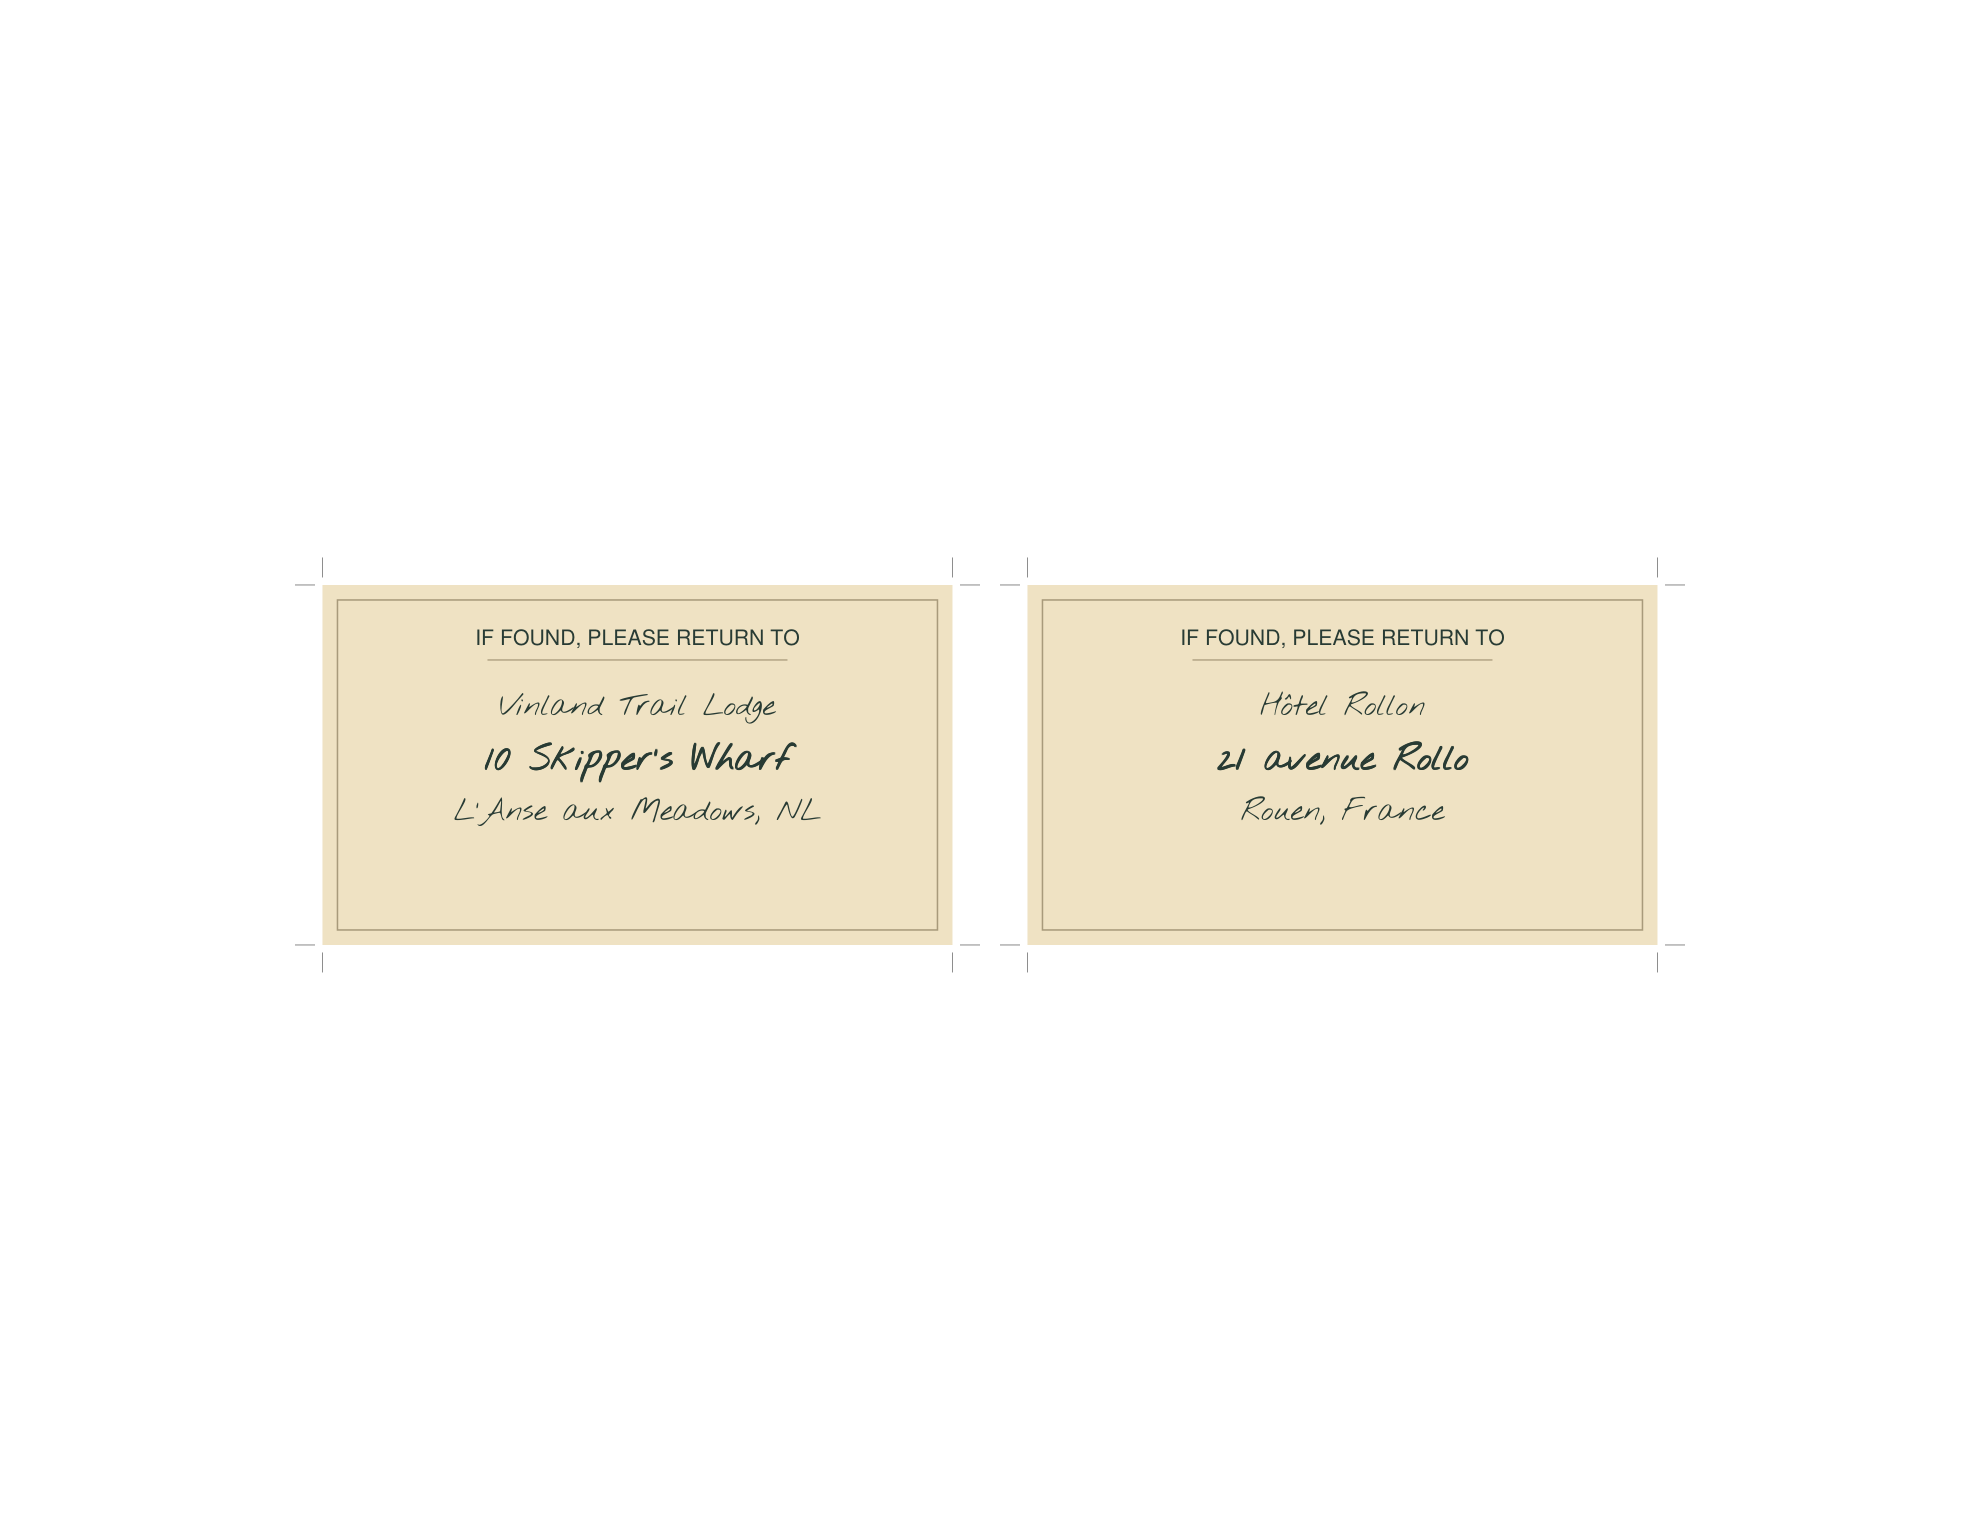
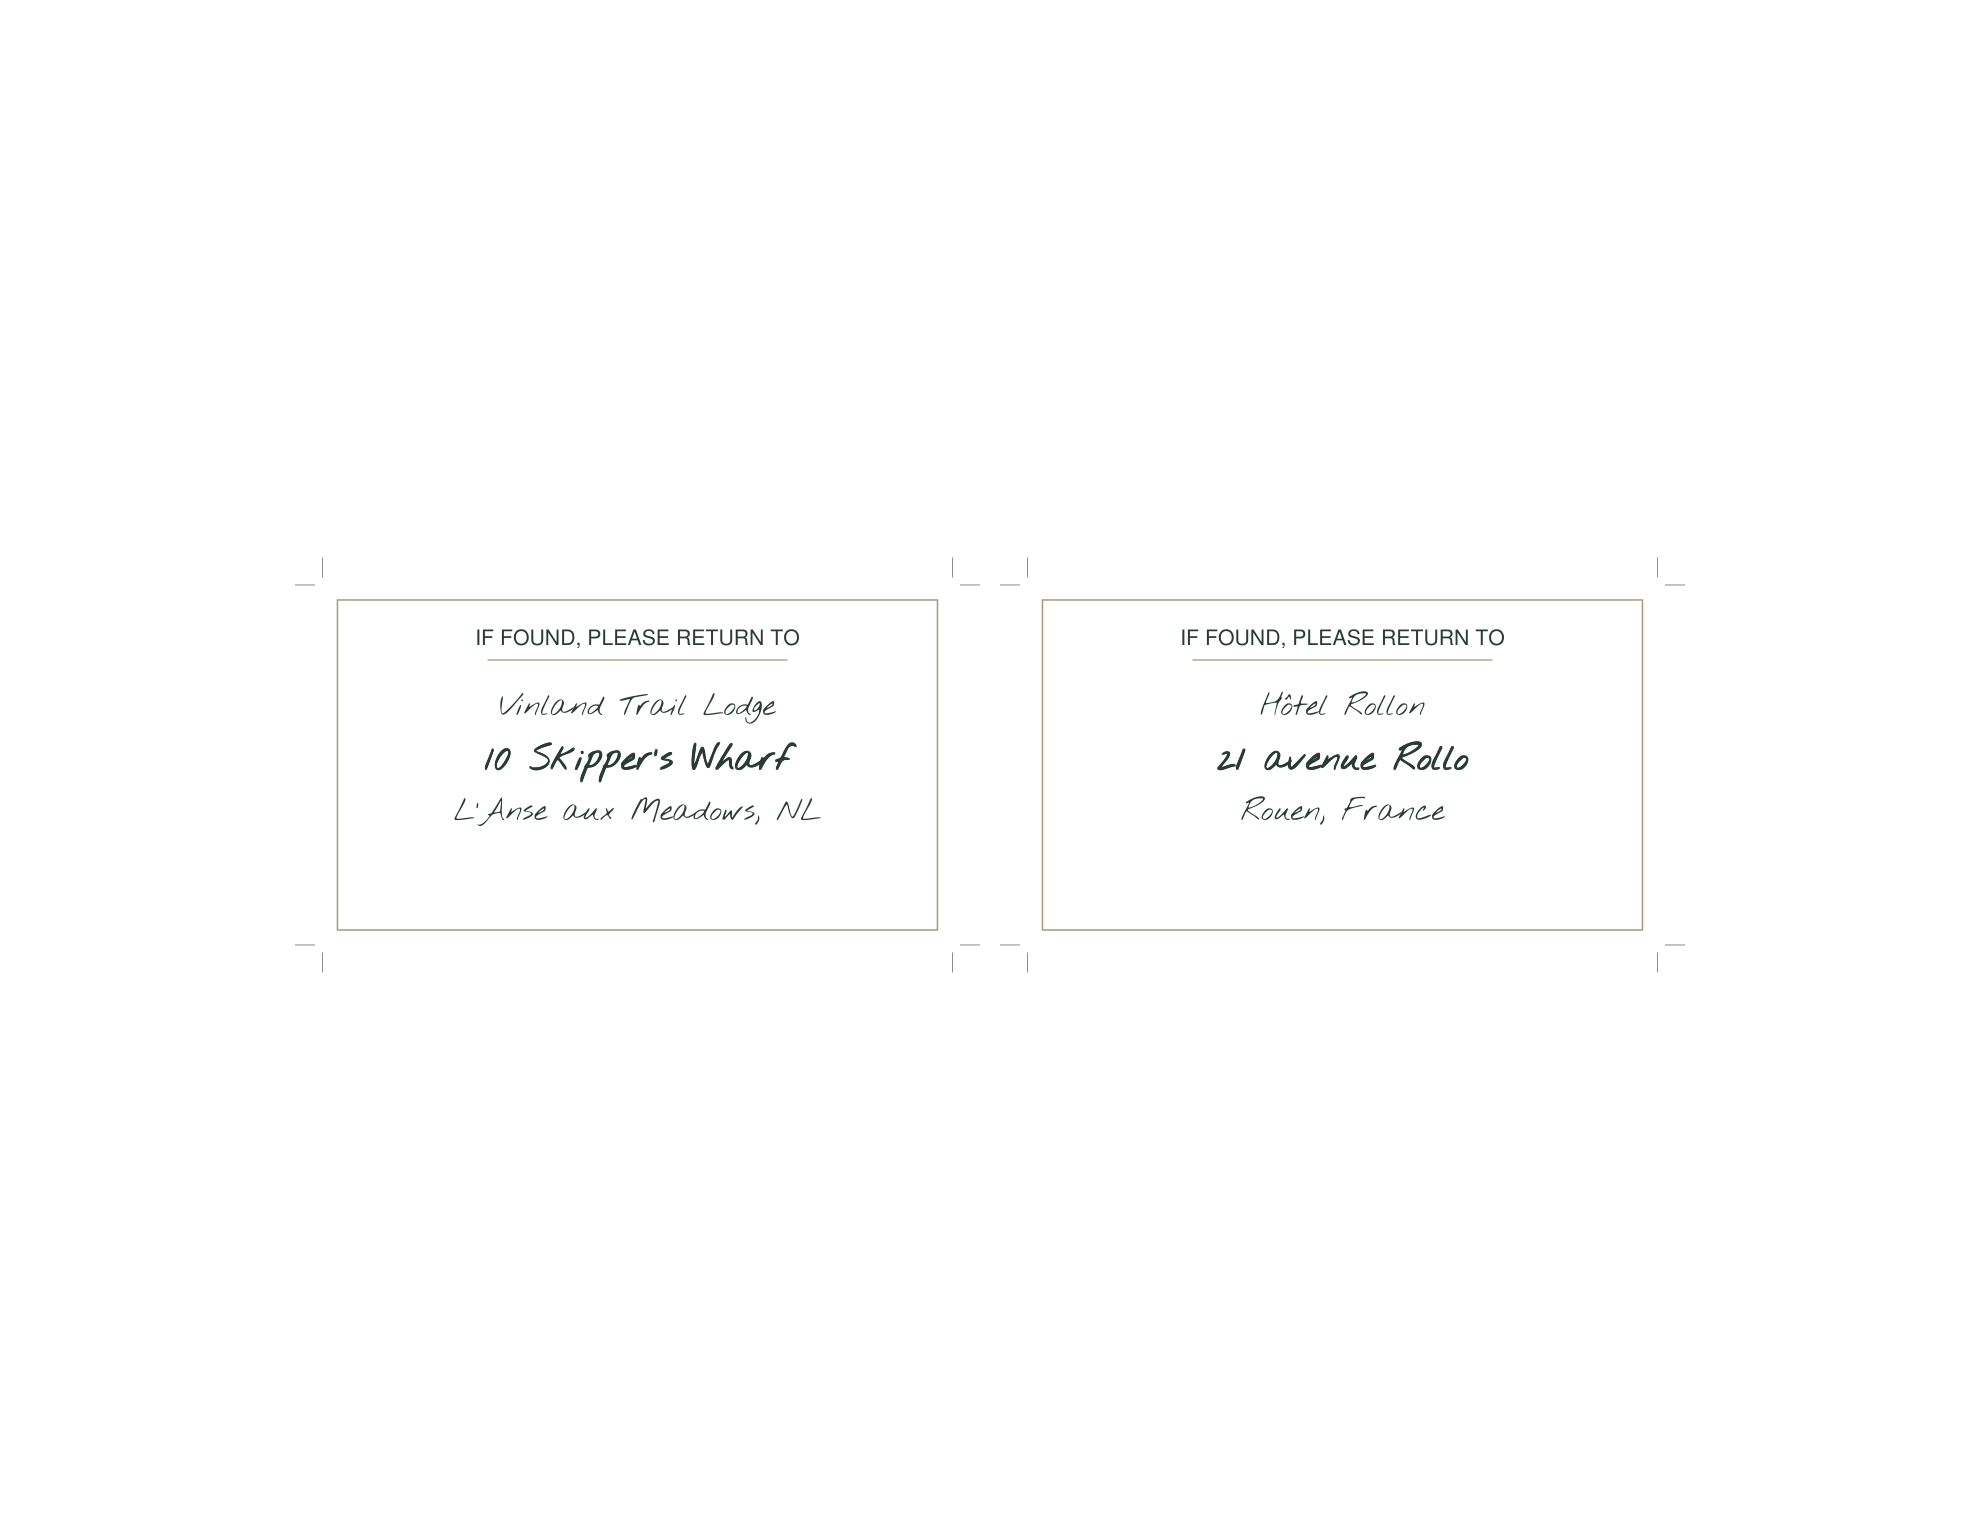
Ticket prints on postcard settings; remove stub numbers; plain luggage tags
Ticket print .docx files now use the confirmed postcard layout (back mirrored
from the right edge, 1.5mm back bleed). Adds Aud and Hnefatafl ticket print
files. Removes stub serial numbers from the museum, Rouen and Aud tickets, and
drops the cream fill from the luggage tag inserts for coloured paper.

Changed region(s): [[0.154, 0.3686, 0.8626, 0.6451]]

diff --git a/NorseBackpack/Props/build_ticket_print_test_docx.py b/NorseBackpack/Props/build_ticket_print_test_docx.py
@@ -1,71 +1,77 @@
 """
-Applies the postcard PrintTest technique (Postcards/build_print_test_docx.py, decided
-25 Sept 2026) to the two tickets parked under PR-17/PR-18 for home-duplex registration
-drift: the L'Anse museum ticket (PZ-12) and the Rouen ticket (PZ-15).
+Ticket print files -- the postcard PrintTest technique (Postcards/build_print_test_docx.py)
+applied to the double-sided tickets: the L'Anse museum ticket (PZ-12), the Rouen ticket
+(PZ-15), the Hnefatafl museum ticket (PZ-01/PZ-07) and Aud's treasure-museum ticket (PZ-17). Writes one .docx per ticket to
+output/docx/.
 
-Same fix, same reason: alignment on this printer is reliable in the TOP zone of the
-page and unreliable near the bottom, so each ticket is rotated 90 deg to landscape --
-both are narrower than they are tall, so rotating puts the short dimension (2 in) as
-the printed height, well inside the reliable zone. Page 1 = front, page 2 = back,
-rotated the extra 180 deg for a top-to-bottom flip.
+Same settings the postcards were confirmed with on the L1/L2 print test, 2026-09-27:
+  * Each ticket is rotated 90 deg so its short side is the printed height, keeping it in
+    the top zone of the page where this printer aligns reliably.
+  * Pictures are floating, anchored to absolute page coordinates (no table -- Word grew a
+    table column 1.5mm on the postcards).
+  * The manual flip is long-edge: top stays top, left and right swap. So the back sits as far
+    from the RIGHT page edge as the front sits from the LEFT, at the same height.
+  * No back-page shift (the old 1.5mm shift was dropped for the postcards too).
+  * 1.5mm bleed on the back only; the front stays at exact trim size. Ticket backs are not one
+    flat colour (the museum back is a dark band over bare paper), so the bleed repeats each
+    edge's own pixels outward instead of padding with a single colour.
 
-Untested assumption carried over from the postcard fix: the 1.5mm rightward shift on
-the back page that cancelled drift there is reused here as a starting point, not
-re-measured for this stock (176 gsm cream cardstock vs. the postcard stock). Check the
-first printed sheet before trusting it -- if the back is still off, adjust TEXT_SHIFT
-for these two files independently of the postcard value.
-
-Source: rasterized straight from each ticket's own Print.pdf (already at exact trim
-size, 300dpi) via PyMuPDF, not from any intermediate PNG, so this can never drift from
-the production build. Rebuild after either build_museum_ticket_pdf.py or
-build_rouen_ticket_pdf.py changes.
+Source: rasterized straight from each ticket's own Print.pdf (exact trim size) at 300dpi via
+PyMuPDF, so this never drifts from the production build. Rebuild after any of
+build_museum_ticket_pdf.py, build_rouen_ticket_pdf.py, Hnefatafl/build_ticket_pdf.py or
+AudTicket/build_aud_ticket_pdf.py changes.
 """
 
+import importlib.util
 import io
 from pathlib import Path
 
-import fitz
+import pymupdf as fitz
+import numpy as np
 from docx import Document
-from docx.shared import Inches, Mm
-from docx.enum.text import WD_ALIGN_PARAGRAPH
-from docx.enum.table import WD_TABLE_ALIGNMENT, WD_ROW_HEIGHT_RULE
 from docx.enum.section import WD_SECTION
-from docx.oxml.ns import qn
 from PIL import Image
 
 ROOT = Path(__file__).resolve().parents[2]
 OUT_DIR = ROOT / "output" / "docx"
 PDF_DIR = ROOT / "output" / "pdf"
 
+# Reuse the postcard script's absolute-position picture helper so both stay identical.
+_spec = importlib.util.spec_from_file_location(
+    "postcard_print", ROOT / "NorseBackpack" / "Postcards" / "build_print_test_docx.py")
+_postcard = importlib.util.module_from_spec(_spec)
+_spec.loader.exec_module(_postcard)
+add_floating_picture = _postcard.add_floating_picture
+
 RENDER_DPI = 300
+PAGE_W_IN = 8.5  # python-docx default template: US Letter
 TOP_MARGIN_IN = 0.3
 SIDE_MARGIN_IN = 0.6
-ROTATE_DEGREES = -90  # clockwise, same convention as the postcard script
-TEXT_ROTATE_DEGREES = ROTATE_DEGREES + 180
-# Carried over from the postcard fix (PR-23) as a starting point -- not yet re-measured
-# for this ticket stock. Verify on the first printed sheet.
-TEXT_SHIFT = Mm(1.5)
+ROTATE_DEGREES = _postcard.ROTATE_DEGREES
+TEXT_ROTATE_DEGREES = _postcard.TEXT_ROTATE_DEGREES
+TEXT_SHIFT_X_IN = 0
+TEXT_SHIFT_Y_IN = 0
+BLEED_IN = _postcard.BLEED_IN
 
+# w_in x h_in = the ticket as designed (portrait); page indices = front, back in its Print.pdf.
 TICKETS = {
-    "MuseumTicket": {
-        "pdf": PDF_DIR / "Museum_Ticket_Print.pdf",
-        "w_in": 2.0,
-        "h_in": 5.5,
-    },
-    "RouenTicket": {
-        "pdf": PDF_DIR / "Rouen_Ticket_Print.pdf",
-        "w_in": 2.0,
-        "h_in": 3.0,
-    },
+    "MuseumTicket": {"pdf": PDF_DIR / "Museum_Ticket_Print.pdf", "w_in": 2.0, "h_in": 5.5},
+    "RouenTicket": {"pdf": PDF_DIR / "Rouen_Ticket_Print.pdf", "w_in": 2.0, "h_in": 3.0},
+    "HnefataflTicket": {"pdf": PDF_DIR / "Hnefatafl_Ticket_Print.pdf", "w_in": 2.6, "h_in": 6.6},
+    # Page 3 of Aud_Ticket_Print.pdf is the filled-in answer copy -- never printed for players.
+    "AudTicket": {"pdf": PDF_DIR / "Aud_Ticket_Print.pdf", "w_in": 3.0, "h_in": 4.0},
 }
 
 
-def page_to_image_stream(pdf_path, page_index, rotate_degrees):
+def page_to_image_stream(pdf_path, page_index, rotate_degrees, bleed_in=0):
     doc = fitz.open(pdf_path)
     page = doc[page_index]
     zoom = RENDER_DPI / 72
     pix = page.get_pixmap(matrix=fitz.Matrix(zoom, zoom), alpha=False)
-    img = Image.open(io.BytesIO(pix.tobytes("png")))
+    img = Image.open(io.BytesIO(pix.tobytes("png"))).convert("RGB")
+    if bleed_in:
+        pad = round(bleed_in * RENDER_DPI)
+        img = Image.fromarray(np.pad(np.asarray(img), ((pad, pad), (pad, pad), (0, 0)), mode="edge"))
     rotated = img.rotate(rotate_degrees, expand=True)
     buf = io.BytesIO()
     rotated.save(buf, format="PNG")
@@ -73,51 +79,24 @@ def page_to_image_stream(pdf_path, page_index, rotate_degrees):
     return buf
 
 
-def remove_table_borders(table):
-    tbl_pr = table._tbl.tblPr
-    borders = tbl_pr.makeelement(qn("w:tblBorders"), {})
-    for edge in ("top", "left", "bottom", "right", "insideH", "insideV"):
-        el = borders.makeelement(qn(f"w:{edge}"), {qn("w:val"): "none"})
-        borders.append(el)
-    tbl_pr.append(borders)
-
-
-def build_page(doc, pdf_path, page_index, w_in, h_in, rotate_degrees):
-    # Rotated 90 deg: printed width/height swap.
-    printed_w_in, printed_h_in = h_in, w_in
-    table = doc.add_table(rows=1, cols=1)
-    table.alignment = WD_TABLE_ALIGNMENT.CENTER
-    table.autofit = False
-    remove_table_borders(table)
-    row = table.rows[0]
-    row.height_rule = WD_ROW_HEIGHT_RULE.EXACTLY
-    row.height = Inches(printed_h_in)
-    cell = row.cells[0]
-    cell.width = Inches(printed_w_in)
-    cell.paragraphs[0].alignment = WD_ALIGN_PARAGRAPH.CENTER
-    run = cell.paragraphs[0].add_run()
-    run.add_picture(
-        page_to_image_stream(pdf_path, page_index, rotate_degrees),
-        width=Inches(printed_w_in),
-        height=Inches(printed_h_in),
-    )
-
-
-def set_margins(section, horizontal_shift=0):
-    section.top_margin = Inches(TOP_MARGIN_IN)
-    section.left_margin = Inches(SIDE_MARGIN_IN) + horizontal_shift
-    section.right_margin = Inches(SIDE_MARGIN_IN) - horizontal_shift
-    section.bottom_margin = Inches(0.3)
-
-
 def build_ticket(name, spec):
-    doc = Document()
-    set_margins(doc.sections[0])
-    build_page(doc, spec["pdf"], 0, spec["w_in"], spec["h_in"], ROTATE_DEGREES)
+    # Rotated 90 deg: printed width/height swap.
+    printed_w, printed_h = spec["h_in"], spec["w_in"]
+    front_x, front_y = SIDE_MARGIN_IN, TOP_MARGIN_IN
 
-    text_section = doc.add_section(WD_SECTION.NEW_PAGE)
-    set_margins(text_section, horizontal_shift=TEXT_SHIFT)
-    build_page(doc, spec["pdf"], 1, spec["w_in"], spec["h_in"], TEXT_ROTATE_DEGREES)
+    doc = Document()
+    paragraph = doc.add_paragraph()
+    add_floating_picture(paragraph, page_to_image_stream(spec["pdf"], 0, ROTATE_DEGREES),
+                         printed_w, printed_h, front_x, front_y)
+
+    doc.add_section(WD_SECTION.NEW_PAGE)
+    paragraph = doc.add_paragraph()
+    back_x = PAGE_W_IN - front_x - printed_w + TEXT_SHIFT_X_IN
+    back_y = front_y + TEXT_SHIFT_Y_IN
+    add_floating_picture(paragraph,
+                         page_to_image_stream(spec["pdf"], 1, TEXT_ROTATE_DEGREES, bleed_in=BLEED_IN),
+                         printed_w + 2 * BLEED_IN, printed_h + 2 * BLEED_IN,
+                         back_x - BLEED_IN, back_y - BLEED_IN)
 
     OUT_DIR.mkdir(parents=True, exist_ok=True)
     out_path = OUT_DIR / f"PrintTest_{name}.docx"

diff --git a/NorseBackpack/Props/MuseumTicket/build_museum_ticket_pdf.py b/NorseBackpack/Props/MuseumTicket/build_museum_ticket_pdf.py
@@ -11,7 +11,10 @@ from reportlab.pdfgen import canvas
 ROOT = Path(__file__).resolve().parents[3]
 OUT = ROOT / "output" / "pdf" / "Museum_Ticket_Print.pdf"
 OUT_LETTER = ROOT / "output" / "pdf" / "Museum_Ticket_Letter_Print.pdf"
-FRONT = Path(__file__).resolve().parent / "Museum_Ticket_Front_300dpi_v3_transparent.png"
+# v4 (27 Sept 2026): v3 with the baked-in "No. 084726" stub number erased (it sat alone on
+# transparent ground, so the pixels were simply cleared) -- serial numbers removed from all
+# museum tickets so players never mistake one for a code.
+FRONT = Path(__file__).resolve().parent / "Museum_Ticket_Front_300dpi_v4_transparent.png"
 FONT_DIR = ROOT / "Fonts"
 
 # Matches the front artwork: a 2 x 5.5 in portrait admission ticket (PZ-12).
@@ -137,13 +140,11 @@ def draw_back_card(c, x=0, y=0):
         c.setFont("Helvetica-Bold", 6.2)
         c.drawRightString(right, baseline, str(number))
 
-    # Footer, matching the front's small ticket-stub number.
+    # Footer rule.
     c.setStrokeColor(RULE)
     c.setLineWidth(0.5)
     c.line(left, footer_h, right, footer_h)
-    c.setFillColor(HexColor("#59635D"))
-    c.setFont("Helvetica", 5.2)
-    c.drawCentredString(W / 2, 7, "No. 084726")
+    # Stub number "No. 084726" removed 27 Sept 2026 -- could be mistaken for a code.
 
     c.restoreState()
 

diff --git a/NorseBackpack/Props/AudTicket/build_aud_ticket_pdf.py b/NorseBackpack/Props/AudTicket/build_aud_ticket_pdf.py
@@ -173,7 +173,7 @@ def draw_coin_key(c, top):
     c.setLineWidth(0.5)
     c.line(left, yy + 3, right, yy + 3)
     if yy < 22:
-        raise ValueError("coin key runs into the serial number (bottom at %.1fpt)" % yy)
+        raise ValueError("coin key runs into the bottom margin (bottom at %.1fpt)" % yy)
 
 
 def draw_front_card(c, x=0, y=0):
@@ -202,11 +202,8 @@ def draw_front_card(c, x=0, y=0):
 
     draw_coin_key(c, H - HEADER_H - 15)
 
-    c.setFillColor(SOFT)
-    c.setFont("Helvetica", 5.2)
-    # Deliberately unrelated to the code: an earlier draft read "No. 531-A", which
-    # printed the answer on the front of the ticket.
-    c.drawCentredString(W / 2, 12, "No. 209418")
+    # Stub number removed 27 Sept 2026 -- "No. 209418" (and before it "No. 531-A", which
+    # printed the answer) could be mistaken for a code.
     c.restoreState()
 
 

diff --git a/NorseBackpack/Props/build_luggage_tag_inserts_pdf.py b/NorseBackpack/Props/build_luggage_tag_inserts_pdf.py
@@ -16,7 +16,6 @@ CARD_W, CARD_H = 3.5 * 72, 2 * 72
 PAGE = landscape((8.5 * 72, 11 * 72))
 PAGE_W, PAGE_H = PAGE
 
-PAPER = HexColor("#EFE3C4")
 INK = HexColor("#283B34")
 RULE = HexColor("#A99A7B")
 
@@ -44,8 +43,8 @@ def draw_bold_script(c, text, x, y, size, color=INK):
 def draw_insert(c, x, y, tag):
     c.saveState()
     c.translate(x, y)
-    c.setFillColor(PAPER)
-    c.rect(0, 0, CARD_W, CARD_H, fill=1, stroke=0)
+    # No background fill (27 Sept 2026): printed on coloured paper, which supplies the tint
+    # and means a slightly-off cut can never show a white edge.
     c.setStrokeColor(RULE)
     c.setLineWidth(0.6)
     c.rect(6, 6, CARD_W - 12, CARD_H - 12, fill=0, stroke=1)

diff --git a/NorseBackpack/Props/RouenTicket/build_rouen_ticket_pdf.py b/NorseBackpack/Props/RouenTicket/build_rouen_ticket_pdf.py
@@ -150,9 +150,7 @@ def draw_front_card(c, castle, x=0, y=0):
     c.setFillColor(INK)
     c.setFont("CinzelBold", 8.2)
     c.drawCentredString(W / 2, 21, "GENERAL ADMISSION")
-    c.setFillColor(HexColor("#59635D"))
-    c.setFont("Helvetica", 5.6)
-    c.drawCentredString(W / 2, 10, "No. 0163")
+    # Stub number "No. 0163" removed 27 Sept 2026 -- could be mistaken for a code.
 
     c.restoreState()
 
